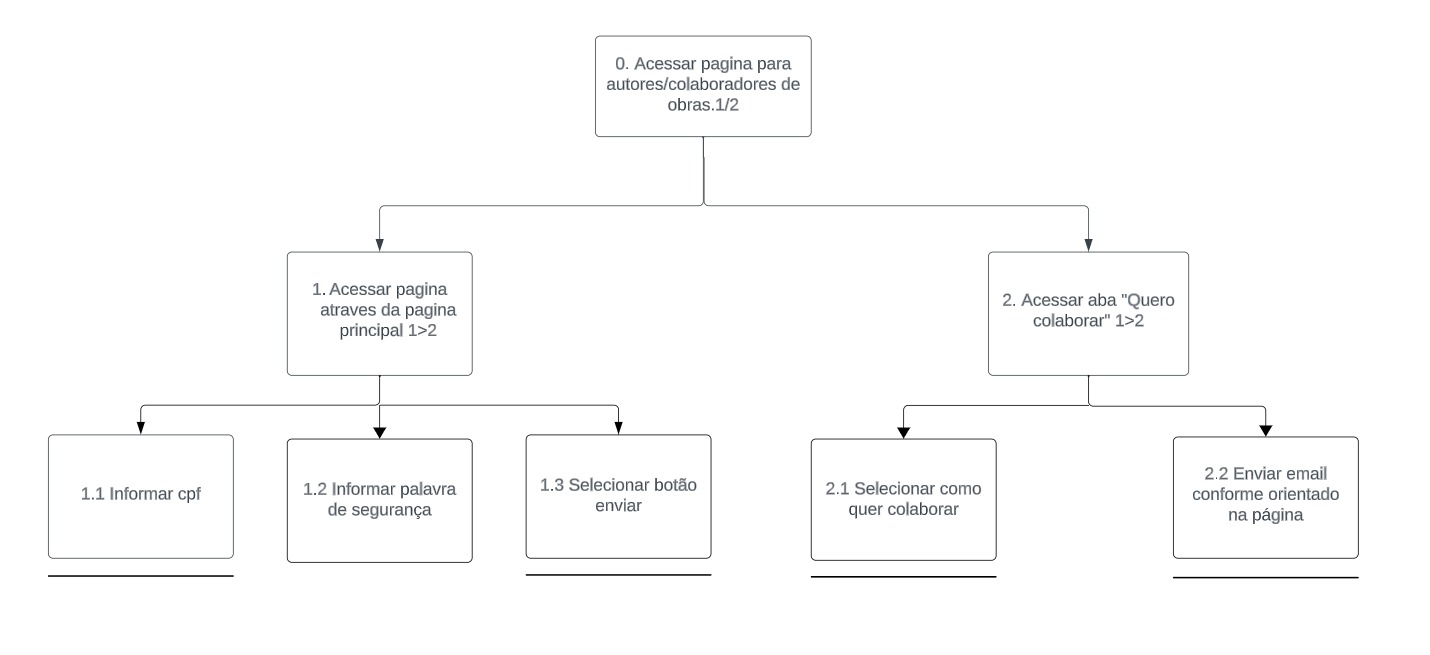
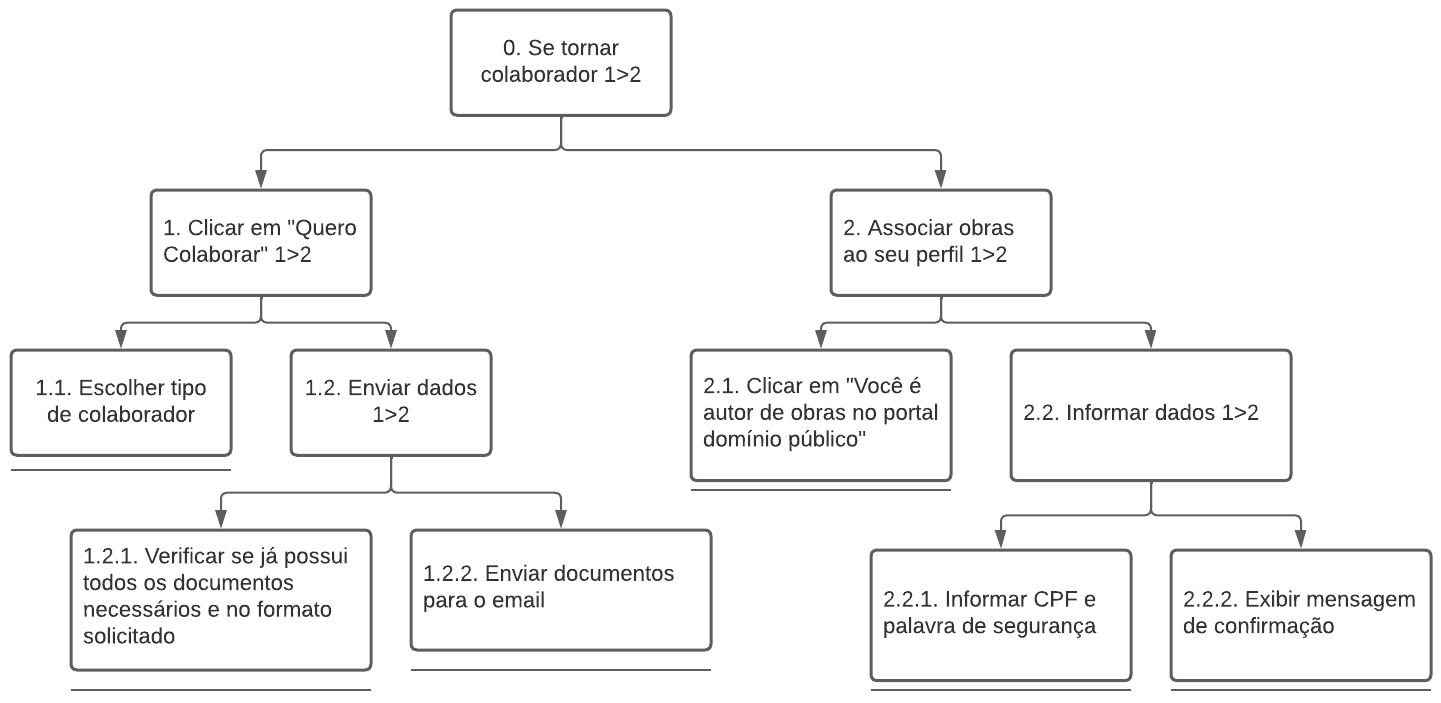
docs: "Alterações na HTA de colaborador"

diff --git a/docs/analise_de_requisitos/analise_de_tarefas/hta.md b/docs/analise_de_requisitos/analise_de_tarefas/hta.md
@@ -100,7 +100,7 @@ Nessa tarefa o usuário tem por objetivo acessar a parte de ajuda ao usuário de
 
 
 
-### Acessar aba para autores/colaboradores
+### Se tornar um colaborador
 
 Nessa tarefa, o objetivo do usuário é acessar a aba para autores e colaboradores disponível no site em questão. A Figura 5 apresenta seu diagram HTA e a Tabela 4 suas especificações:  
 
@@ -108,23 +108,26 @@ Nessa tarefa, o objetivo do usuário é acessar a aba para autores e colaborador
 
 ![Autores e colab](../../assets/analise_de_requisitos/HTAAutCol.png)
 
-<font size="2"><p style="text-align: center">Fonte: [Harryson Campos](https://github.com/harry-cmartin) e [Gustavo França](https://github.com/gustavofbs), 2023</p></font>
+<font size="2"><p style="text-align: center">Fonte: [Maria Alice](https://github.com/Maliz30), 2023</p></font>
 
 
 <font size="2"><p style="text-align: center">Tabela 4: Tabela da representação HTA da tarefa "Acessar aba para autores/colaboradores" </p></font>
 
-| Objetivos / Operações                         | Relações | Problemas e Recomendações                                                                                                                    |
-| --------------------------------------------- | -------- | -------------------------------------------------------------------------------------------------------------------------------------------- |
-| 0. Acessar página para autores de obras       |          |                                                                                                                                              |
-| 1. Acessar página através da página principal | 1 > 2    |                                                                                                                                              |
-| 2. Acessar aba "Quero colaborar"              | 1 > 2    | feedback: o usuário é redirecionadoa página correspondente <br> plano: o usuário deve ver as opções dispóniveis para autores e colaboradores |
-| 1.1 Informar CPF                              |          |                                                                                                                                              |
-| 1.2 Informar letras para segurança            |          |                                                                                                                                              |
-| 1.3 Selecionar botão enviar                   |          | feedback: o usuário deve ser redirecionado a aba dos autores                                                                                 |
-| 2.1 Selecionar como quer colaborar            |          | feedback: é redirecionado para a página de instruções da opção selecionada                                                                   |
-| 2.2 Enviar email conforme orientado na página |          | plano: o usuário ao enviar email deve ser correspondido pelo destinatário                                                                    |
+| Objetivos / Operações | Relações | Problemas e Recomendações|
+| --------------------- | :------: | ------------------------ |
+| 0. Se tornar colaborador | 1 > 2 | _problema:_ As instruções para se tornar um colaborador e associar obras cadastradas ao seu perfil ficam em áreas totalmente diferentes do site, o que dificulta para o usuário associar as duas ações <br> _recomendação:_ colocar os botões para estas ações em locais próximos ou que indiquem que uma ação deve ser realizada antes da outra <br> _plano:_ o usuário deve enviar a solicitação para se tornar um colaborador, clicando em "Quero Colaborar" *e depois* Associar obras ao seu perfil|
+| 1. Clicar em "Quero Colaborar" | 1 > 2 | _plano:_ o usuário deve escolher para qual tipo de colaborador ele deseja se inscrever *e depois* enviar dados  |
+| 1.1. Escolher tipo de colaborador | |  |
+| 1.2. Enviar dados | 1 > 2 | _plano:_ o usuário deve verificar se já possui todos os documentos necessários e no formato solicitado *e depois* enviar os documentos para o email |
+| 1.2.1. Verificar se já possui todos os documentos necessários e no formato solicitado | ||
+| 1.2.2. Enviar documentos para o email | | _problema:_ Os dados devem ser enviados em um site externo, o que pode fazer com que o usuário envie os documentos para o remetente errado ou percam o interesse em fazer essa solicitação. <br> _recomendação:_ incluir um formulário para que essas solicitações sejam realizadas diretamente no site |
+| 2. Associar obras ao seu perfil | 1 > 2 | __plano:__ o usuário deve primeiro clicar em "Você é autor de obras no portal domínio público" *e depois* informar dados |
+| 2.1. Clicar em "Você é autor de obras no portal domínio público" | ||
+| 2.2. Informar dados | 1 > 2 | __plano:__ informar seu CPF e palavra de segurança *e depois* exibir mensagem de confirmação |
+| 2.2.1. Informar CPF e palavra de segurança |||
+|2.2.2. Exibir mensagem de confirmação |||
 
-<font size="2"><p style="text-align: center">Fonte: [Harryson Campos](https://github.com/harry-cmartin) e [Gustavo França](https://github.com/gustavofbs), 2023</p></font>
+<font size="2"><p style="text-align: center">Fonte: [Maria Alice](https://github.com/Maliz30), 2023</p></font>
 
 
 
@@ -177,3 +180,4 @@ Nessa tarefa, o usuário tem por objetivo acessar a área de estatísticas do si
 | 1.1    | 11/10/2023 | Adição da Analise Hierarquica de Tarefas | [Harryson Martins](https://github.com/harry-cmartin) e [Gustavo França](https://github.com/gustavofbs) | [Maria Alice](https://github.com/Maliz30)      |
 | 1.2    | 11/10/2023 | Adição dos diagramas HTA                 | [Harryson Martins](https://github.com/harry-cmartin) e [Gustavo França](https://github.com/gustavofbs) | [Victor Hugo](https://github.com/ViictorHugoo) |
 | 1.3    | 15/10/2023 | Corrige introdução e metodologia                     | [Gustavo França](https://github.com/gustavofbs) | [Ana Catarina](https://github.com/an4catarina) |
+| 1.4 | 23/10/2023 | Correção na HTA da ação "Se tornar colaborador" | [Maria Alice](https://github.com/Maliz30) | [Gustavo França](https://github.com/gustavofbs) |
